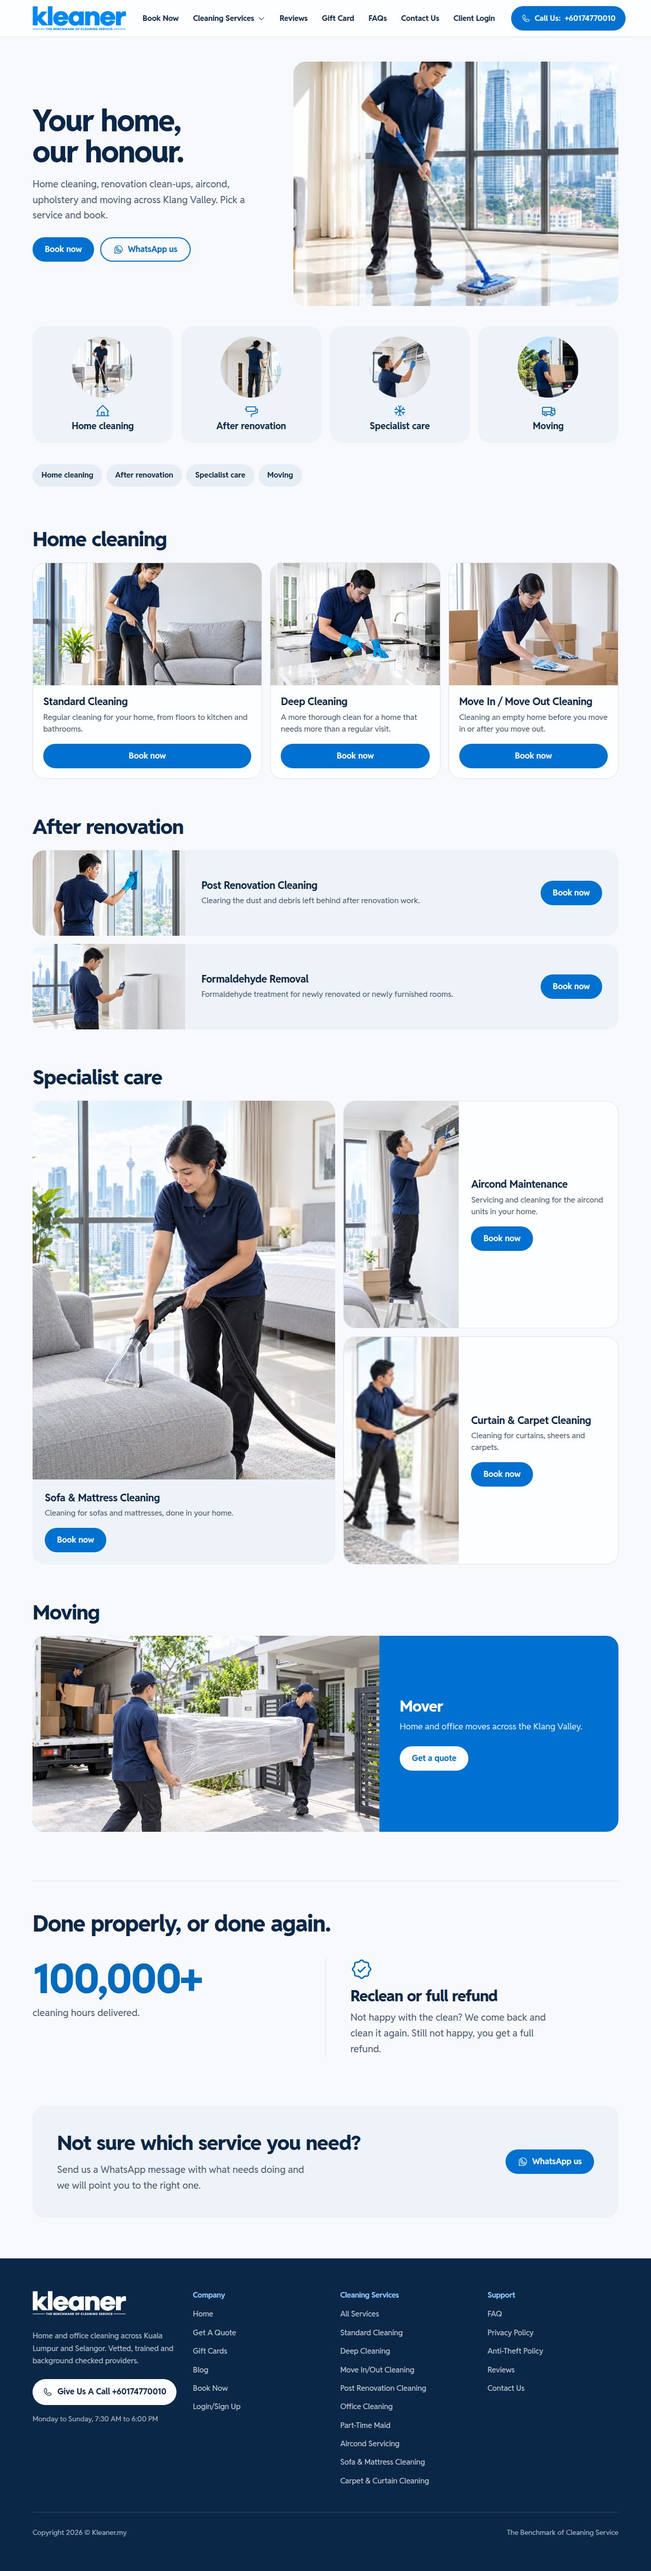
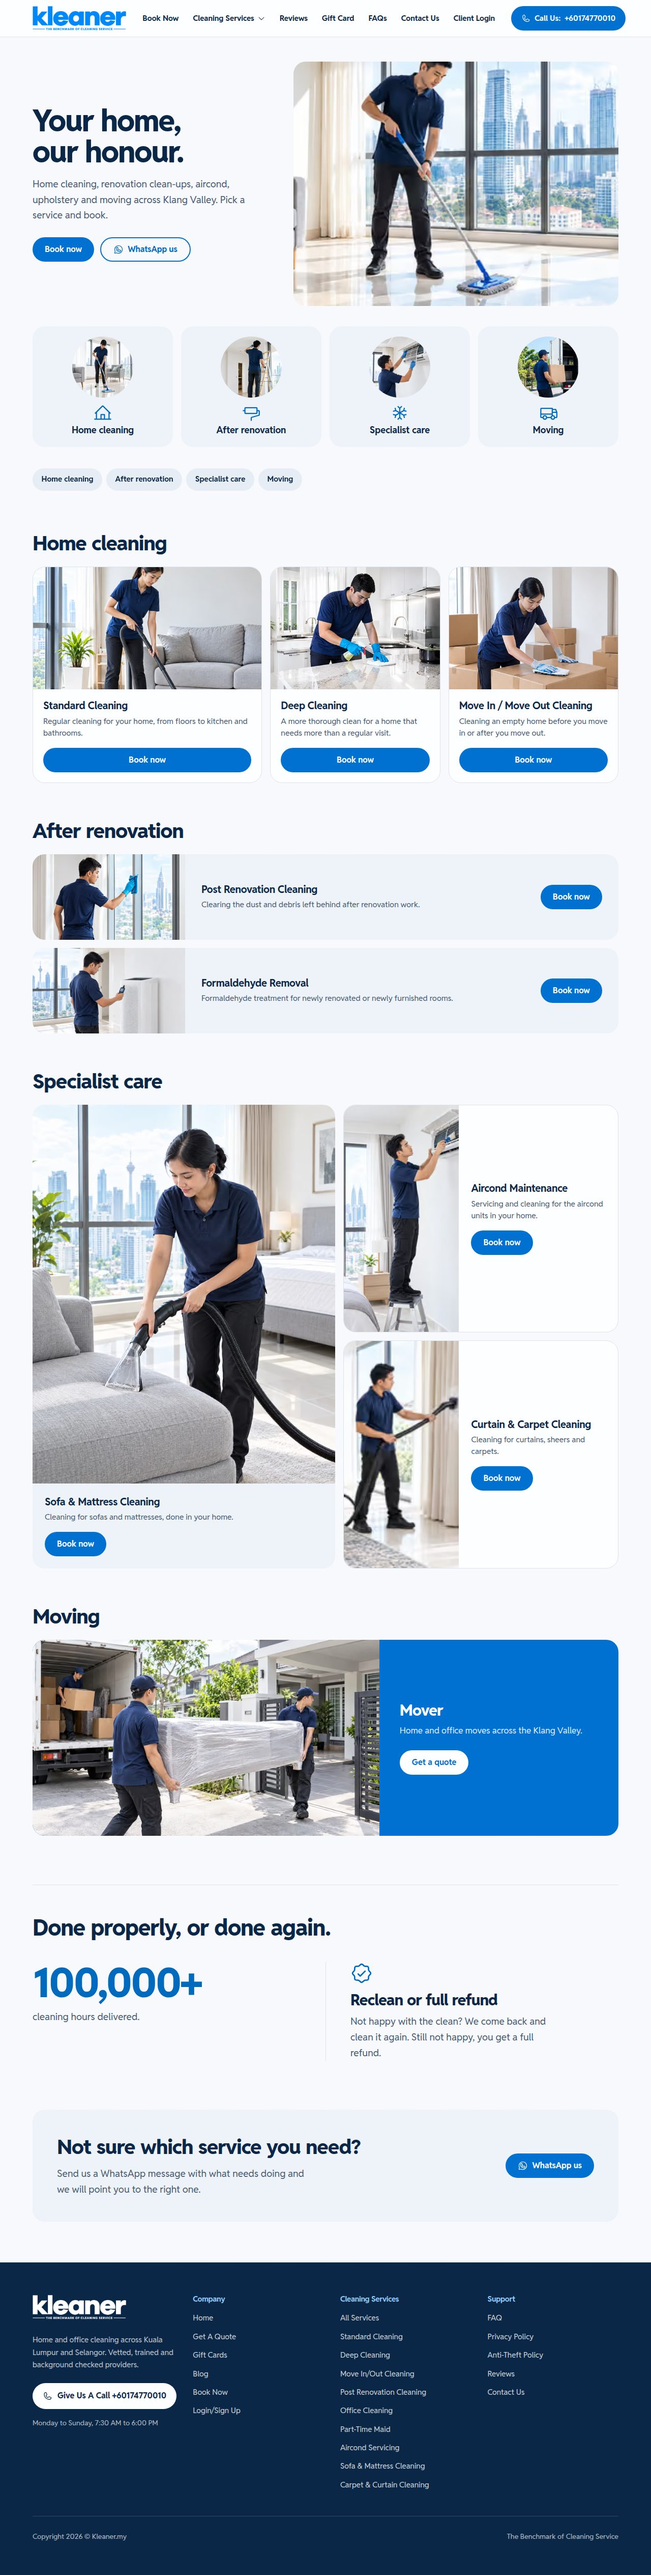
Move the site to home.kleaner.my
Canonical, sitemap, Open Graph and structured data now use
home.kleaner.my. services.kleaner.my redirects to it once both
hostnames are attached to the Pages project.

Claude-Session: https://claude.ai/code/session_01Y2LuFQ22tj55cTncHj8rPP

diff --git a/src/data/site.ts b/src/data/site.ts
@@ -45,7 +45,7 @@ export const STERILISATION_PRICE = priceOf('treatment', 'Air & Surface Sterilisa
 export const SITE = {
   name: 'Kleaner',
   tagline: 'The Benchmark of Cleaning Service',
-  url: 'https://services.kleaner.my',
+  url: 'https://home.kleaner.my',
   mainSite: 'https://kleaner.my',
   /** The other standalone Kleaner sites this one links out to. */
   postRenoSite: 'https://postreno.kleaner.my',

diff --git a/scripts/preview-harness.html b/scripts/preview-harness.html
@@ -197,7 +197,7 @@
   <header class="bar">
     <span class="brandline">
       <strong>Kleaner services hub</strong>
-      <span>Pre-launch preview of services.kleaner.my</span>
+      <span>Pre-launch preview of home.kleaner.my</span>
     </span>
 
     <div class="controls">

diff --git a/GO-LIVE.md b/GO-LIVE.md
@@ -1,4 +1,4 @@
-# Go live checklist: services.kleaner.my
+# Go live checklist: home.kleaner.my
 
 One page, the hub that lists every Kleaner service. Standalone static site,
 because kleaner.my runs on BookingKoala and cannot host custom coded pages.
@@ -7,7 +7,7 @@ Same pattern as `movers.kleaner.my`, `upholstery.kleaner.my` and
 
 | Page | URL once live |
 | --- | --- |
-| All Services | `https://services.kleaner.my/` |
+| All Services | `https://home.kleaner.my/` |
 
 ---
 
@@ -15,7 +15,7 @@ Same pattern as `movers.kleaner.my`, `upholstery.kleaner.my` and
 
 ### The hostname was chosen, the rest was assumed
 
-`services.kleaner.my` is the host you asked for. It is set once, as `SITE.url`
+`home.kleaner.my` is the host you asked for. It is set once, as `SITE.url`
 in `src/data/site.ts`, and everything else reads from it: the canonical, the
 sitemap, the Open Graph URL, the menu entry and the checks in
 `scripts/verify.mjs`.
@@ -76,7 +76,7 @@ fail. Do **not** use `NPM_FLAGS=--production` instead: Tailwind is also a
 devDependency and the build genuinely needs it.
 
 Then **Custom domains**, **Set up a custom domain**, and enter
-`services.kleaner.my`.
+`home.kleaner.my`.
 
 ### Option B: Vercel (`vercel.json` is already in the repo)
 
@@ -85,7 +85,7 @@ npm install -g vercel
 vercel login
 vercel link
 vercel --prod
-vercel domains add services.kleaner.my
+vercel domains add home.kleaner.my
 ```
 
 ### The DNS record
@@ -109,7 +109,7 @@ The main site menu lives in the BookingKoala admin, not in this repo. In the
 
 | Label | URL |
 | --- | --- |
-| `All Services` | `https://services.kleaner.my/` |
+| `All Services` | `https://home.kleaner.my/` |
 
 Add the same entry at the top of the footer's Cleaning Services list.
 
@@ -178,9 +178,9 @@ Then, by hand:
 - [ ] Open the page on a real phone and tap every one of the nine buttons. Confirm
       each one lands on the right service, not just on a page that loads.
 - [ ] Tap the WhatsApp button and check the prefilled message.
-- [ ] Open `services.kleaner.my/#formaldehyde-removal` and check it lands on that service.
+- [ ] Open `home.kleaner.my/#formaldehyde-removal` and check it lands on that service.
 - [ ] Paste the URL into WhatsApp to check the share card renders.
-- [ ] Submit `https://services.kleaner.my/sitemap.xml` in Google Search Console.
+- [ ] Submit `https://home.kleaner.my/sitemap.xml` in Google Search Console.
 - [ ] Run the URL through the Google Rich Results Test and confirm the ItemList.
 
 ---

diff --git a/README.md b/README.md
@@ -1,7 +1,7 @@
 # Kleaner services hub
 
 One page listing every Kleaner service, each card a single tap to its booking
-page. Deployed as a standalone static site on `services.kleaner.my`.
+page. Deployed as a standalone static site on `home.kleaner.my`.
 
 kleaner.my runs on BookingKoala, which cannot host custom coded pages, so this
 follows the same pattern already used for `movers.kleaner.my`,
@@ -37,7 +37,7 @@ system is recorded in [DESIGN.md](./DESIGN.md); product facts in
 | Close | WhatsApp us, for the unsure |
 
 Every service has its own anchor, so ads and WhatsApp can deep-link, for
-example `services.kleaner.my/#formaldehyde-removal`. The previous page's
+example `home.kleaner.my/#formaldehyde-removal`. The previous page's
 anchors (`#general-cleaning`, `#sofa-mattress`, `#post-renovation`,
 `#formaldehyde-removal`, `#movers`) still land on the matching service.
 

diff --git a/PRODUCT.md b/PRODUCT.md
@@ -12,7 +12,7 @@ Households and small businesses in Kuala Lumpur and Selangor who need cleaning (
 
 ## Product Purpose
 
-services.kleaner.my is the one page that lists every Kleaner service and sends the visitor straight into that service's booking flow. Success is a tap through to booking (owner confirmed: booking is the one action; WhatsApp is the backup for the unsure).
+home.kleaner.my is the one page that lists every Kleaner service and sends the visitor straight into that service's booking flow. Success is a tap through to booking (owner confirmed: booking is the one action; WhatsApp is the backup for the unsure).
 
 ## Positioning
 

diff --git a/.impeccable/surfaces/src-pages-index-astro.md b/.impeccable/surfaces/src-pages-index-astro.md
@@ -7,7 +7,7 @@ related_targets: []
 
 ## Scope
 
-services.kleaner.my, the single page (`src/pages/index.astro`). Mode: Persuade. Mobile first, 390px primary.
+home.kleaner.my, the single page (`src/pages/index.astro`). Mode: Persuade. Mobile first, 390px primary.
 
 Audience and job: Klang Valley homeowners, condo residents, people moving or renovating, mostly on a phone from ads and WhatsApp. Job: find their service in seconds and tap the right booking link. Backup: WhatsApp +60 17-477 0978.
 
